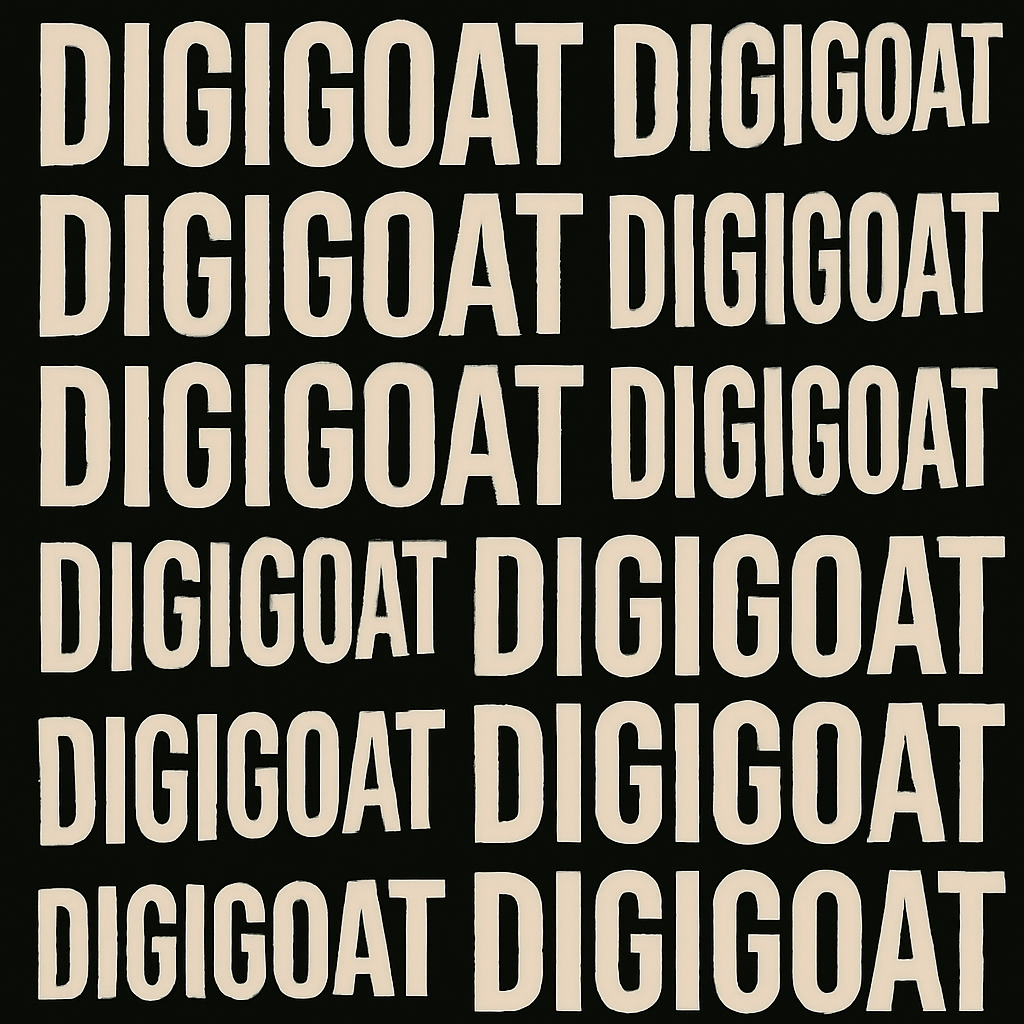
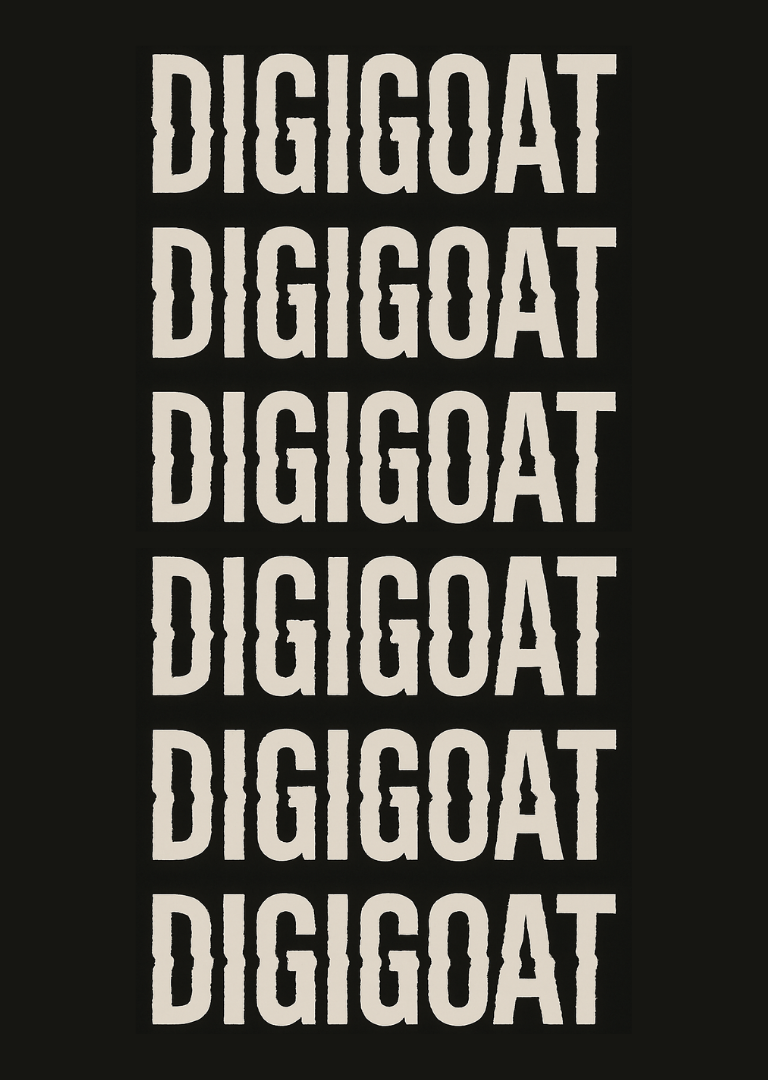
fix: reduced negative space for mobile asset

diff --git a/src/components/work-section.js b/src/components/work-section.js
@@ -116,8 +116,8 @@ export default function WorkSection() {
                             <Eye className={styles.sectionIcon} />
 
                             <h2 className={styles.sectionTitle}>
-                                <span className={styles.desktopTitle}>OUR PORTFOLIO</span>
-                                <span className={styles.mobileTitle}>OUR PORTFOLIO</span>
+                                <span className={styles.desktopTitle}>OUR CLIENTS</span>
+                                <span className={styles.mobileTitle}>OUR CLIENTS</span>
                             </h2>
                         </div>
 

diff --git a/src/components/ripple-background.js b/src/components/ripple-background.js
@@ -24,6 +24,7 @@ export default function RippleBackground() {
                 height: 100%;
                 background-image: url(/digigoat-hero-mobile.png);
                 background-size: cover;
+                background-repeat: no-repeat;
                 background-position: center;
             `
             containerRef.current.appendChild(mobileDiv)
